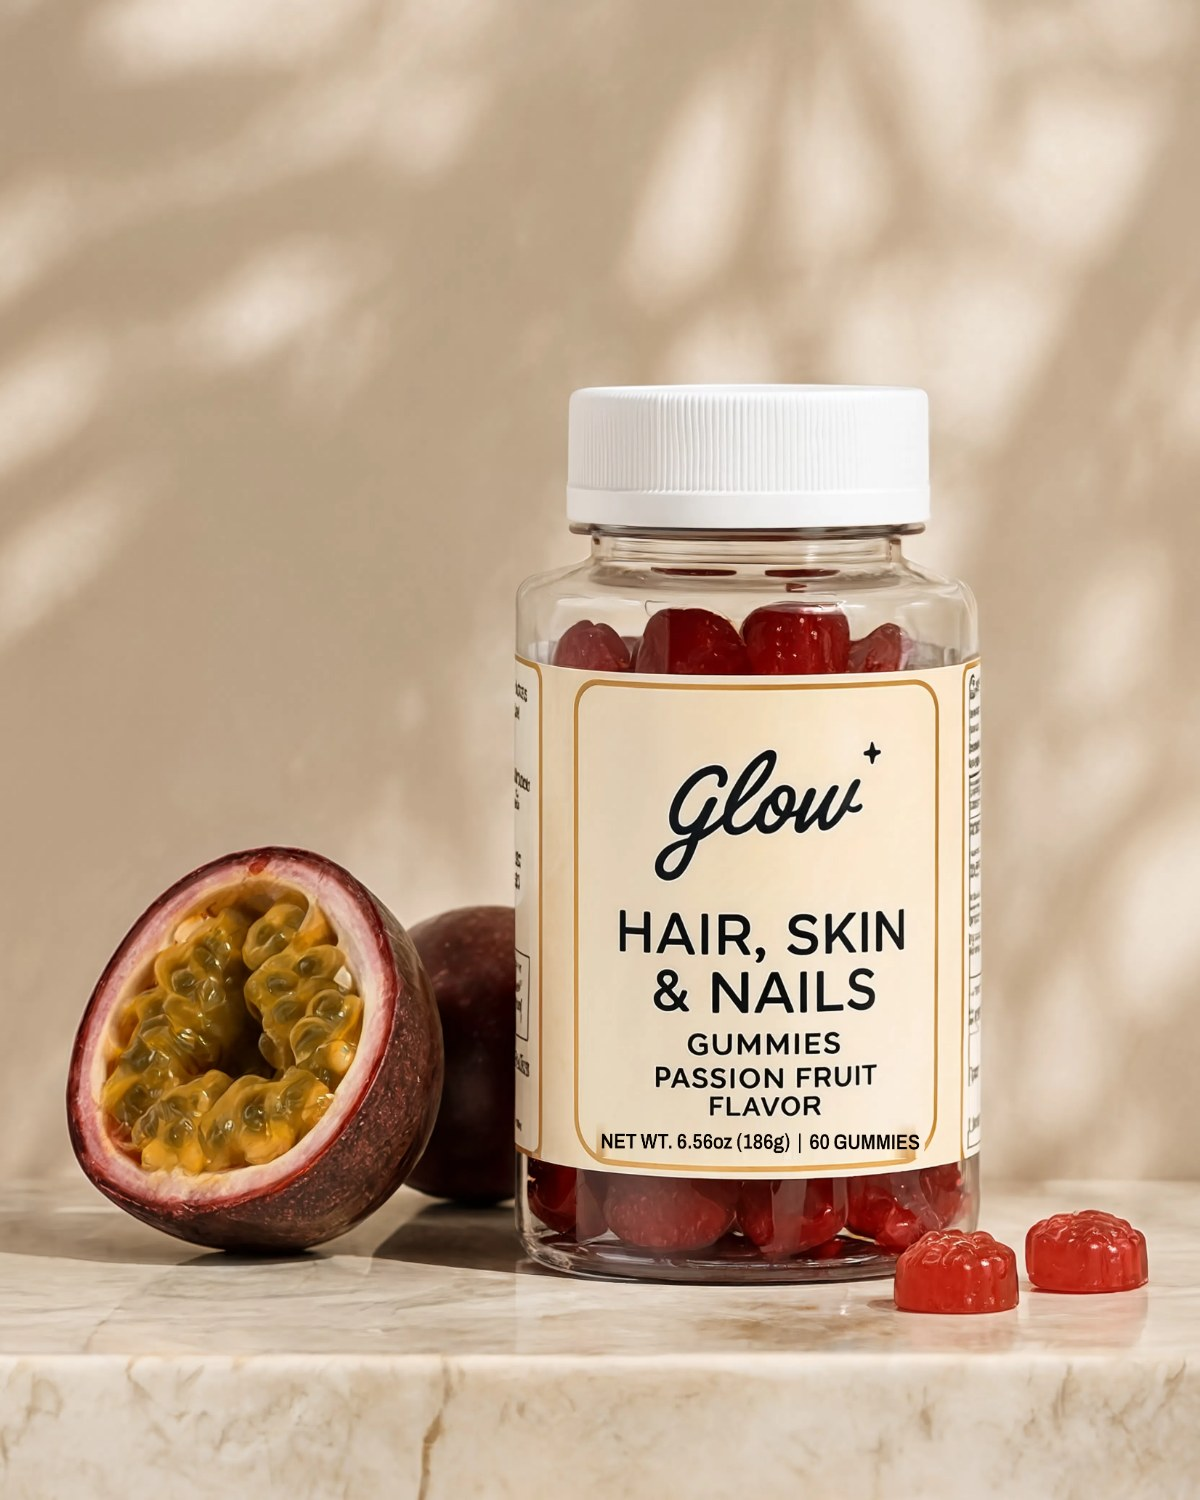
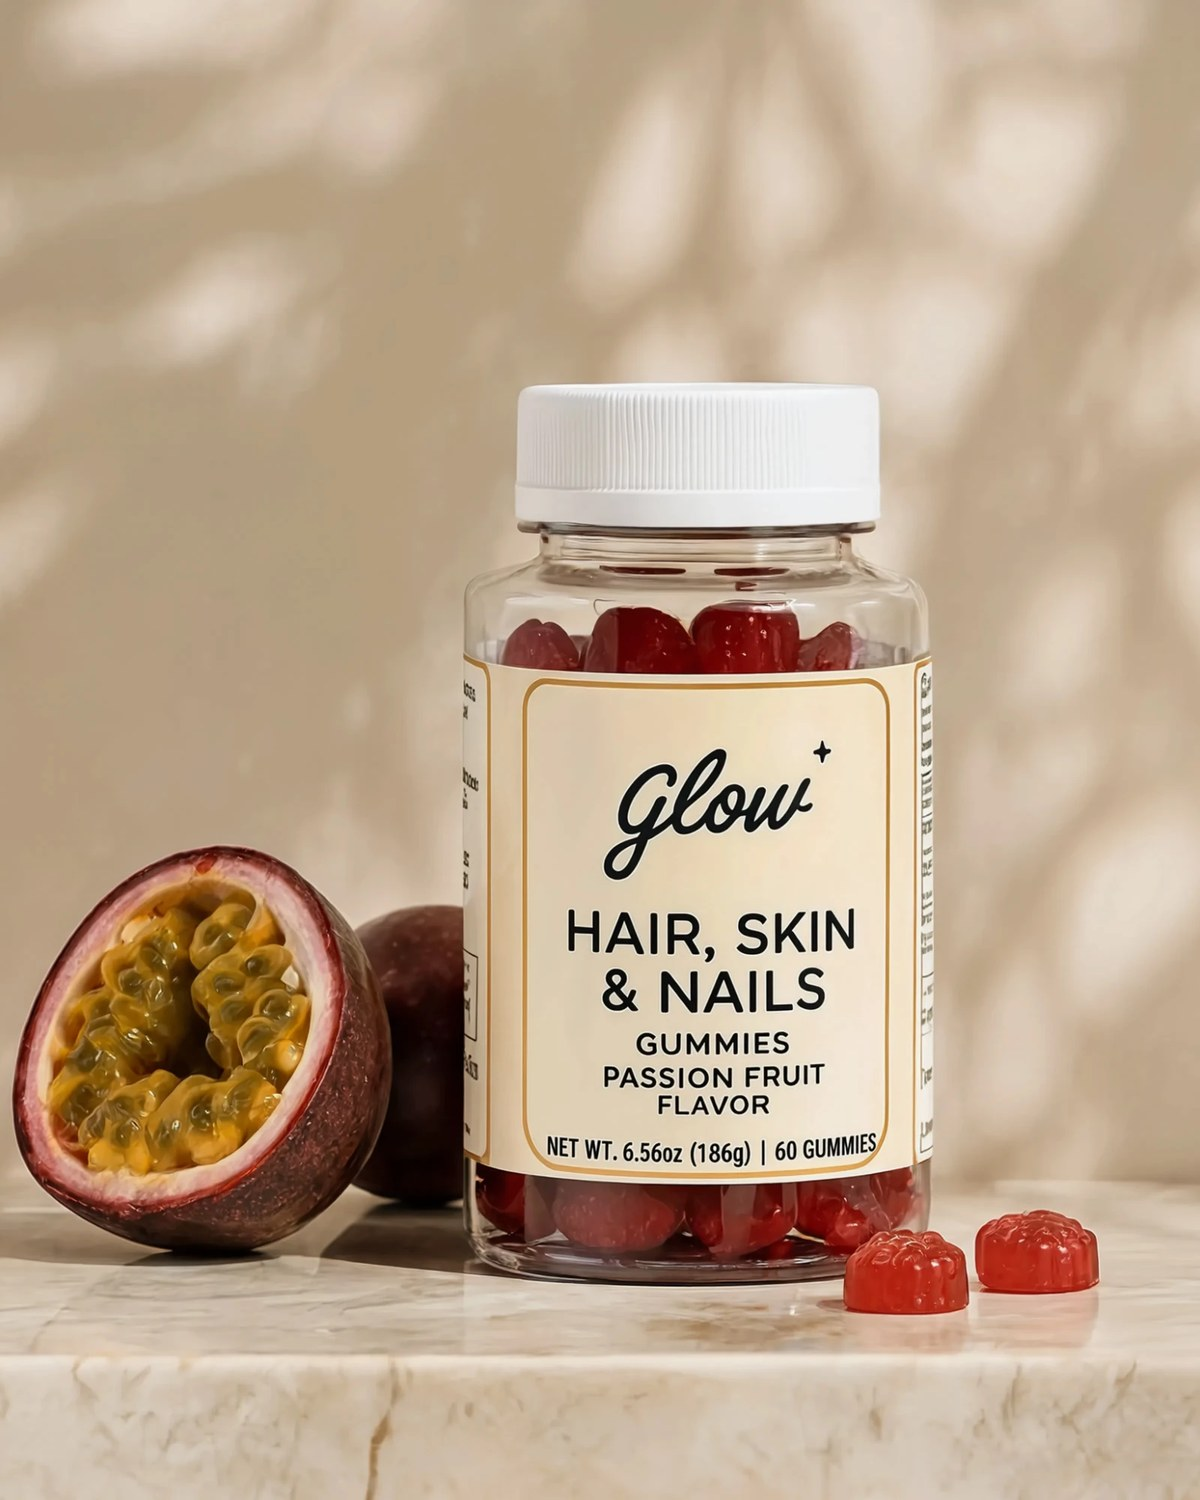
Replace the product photography, label and all
Three new shots: the bottle with a halved passion fruit, the bottle held in
one hand, and the bottle open with gummies spilled on marble. Each replaces
its counterpart, and the in-hand frame is a fourth slot in the gallery rather
than a substitution.

All three carry a label reading 6.56oz (186g), 60 gummies, which is what
products.json says. That is the whole reason the in-hand shot can be here at
all: the last one read 10.58 oz (300 g), and the bottle was tilted too far to
crop between the flavour line and the net weight, so it came out rather than
ship a figure the product data contradicts. Each label was read at 3x before
the file was written, not taken on trust -- a photograph that disagrees with
the page about what is in the bottle is worse than an older photograph.

Cropped to the gallery's existing 4:5 at 1200x1500 so it does not jump between
shots, and each crop is chosen for what it must not lose: the fruit and the
loose gummies on the first, the forearm on the second, the spill on the third.

The skin close-up stays. It carries no product and no label, so it had nothing
to disagree with.

Claude-Session: https://claude.ai/code/session_015xVKGgaH9fCsPQRcFUNezX

diff --git a/src/lib/product-assets.ts b/src/lib/product-assets.ts
@@ -43,18 +43,21 @@ export const PRODUCT_ASSETS = {
   /**
    * Finished product photography, for the gallery.
    *
-   * The in-hand shot that used to sit here is gone. Its label reads
-   * 10.58 oz (300 g) -- a third figure again -- and the bottle is held at
-   * enough of a tilt that only four clean pixels separate the flavour line
-   * from the net weight, which is not enough label stock to rebuild from. A
-   * visible retouch would have been worse than the wrong number, so the shot
-   * came out rather than shipping a figure the product data contradicts. Unlike the layers above
-   * these keep their own backgrounds -- they are shot, not composited -- and
-   * are cropped to one 4:5 frame so the gallery does not jump between shots.
+   * The in-hand shot is back. It came out once because its label read
+   * 10.58 oz (300 g) against the 6.56 oz (186 g) in products.json, and the
+   * bottle was tilted too far to crop between the flavour line and the net
+   * weight. This is a different photograph: the label reads 6.56 oz (186 g),
+   * 60 gummies, which is what the product data says.
+   *
+   * Unlike the layers above these keep their own backgrounds -- they are shot,
+   * not composited -- and are cropped to one 4:5 frame so the gallery does not
+   * jump between shots.
    */
   photos: {
     /** Bottle with cut passion fruit and loose gummies. The default shot. */
     fruit: "/products/glow-photo-fruit.jpg",
+    /** Held in one hand against a sunlit wall. */
+    hand: "/products/glow-photo-hand.jpg",
     /** Cap off, gummies spilled onto marble. */
     open: "/products/glow-photo-open.jpg",
     /** Skin close-up. No product in frame. */

diff --git a/src/components/product-detail.tsx b/src/components/product-detail.tsx
@@ -30,6 +30,7 @@ import { primitive, semantic } from "@/styles/tokens";
 // floating a cut-out on a gradient.
 const GALLERY = [
   { src: PRODUCT_ASSETS.photos.fruit, label: "Passion fruit" },
+  { src: PRODUCT_ASSETS.photos.hand, label: "In hand" },
   { src: PRODUCT_ASSETS.photos.open, label: "Open" },
   { src: PRODUCT_ASSETS.photos.skin, label: "Skin" },
 ];
